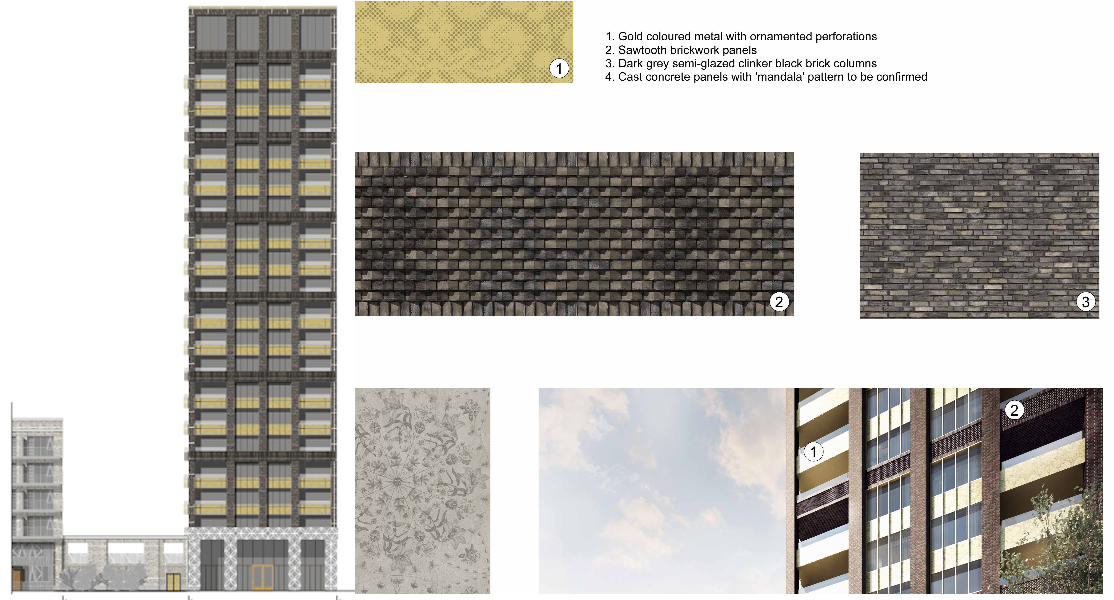
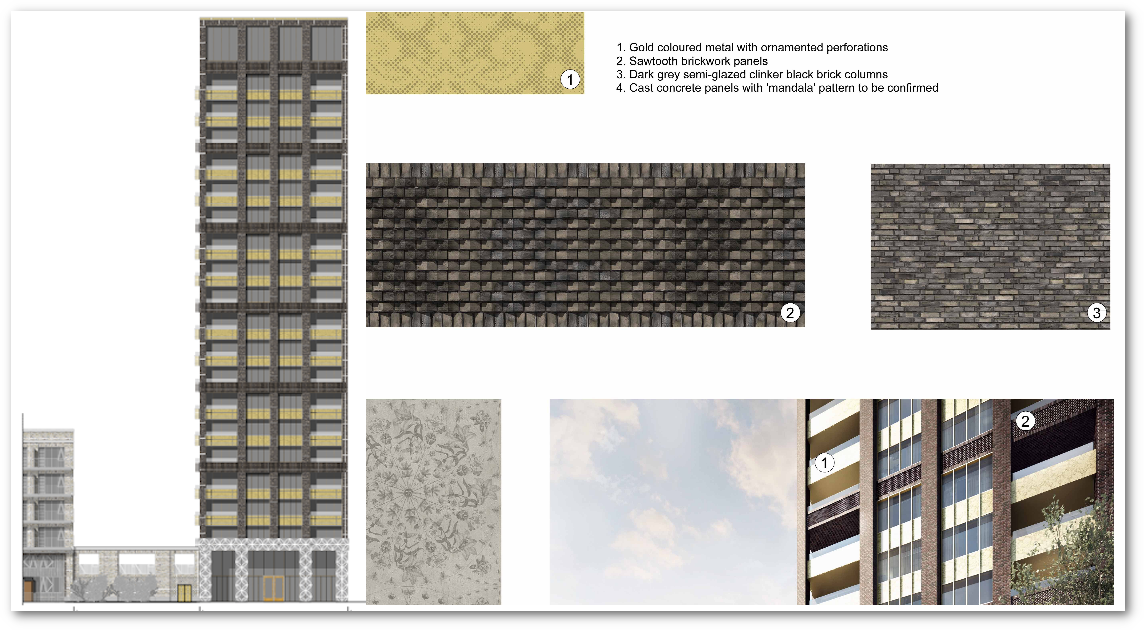
thurs morn

diff --git a/_posts/2020-07-09-aylesbury-estate-fds-variation.md b/_posts/2020-07-09-aylesbury-estate-fds-variation.md
@@ -15,12 +15,12 @@ What the tweets didn't say is that providing these 219 extra social rented homes
 
 Neither did they explain that a proportion of these social rented units won't be social rented at all, because they will be used to rehouse leaseholders being decanted from later phases under the Council's [new shared equity scheme.](http://moderngov.southwarksites.com/documents/s74901/Report%20Amending%20the%20shared%20equity%20rehousing%20policy%20for%20qualifying%20homeowners%20affected%20by%20regenerati.pdf) This was introduced in response to the Secretary of State's [ruling](https://www.theguardian.com/society/2016/sep/16/government-blocks-controversial-plan-to-force-out-housing-estate-residents) that BAME leaseholders were being displaced from their communities.
 
-Neither did they explain that Southwark has also agreed to let NHG continue to deliver the mainly private homes (290 private, 63 shared ownership and 64 social rent[^2]) that were supposed to cross-subsidise these social units without any contribution from NHG. Or that Southwark has also agreed to forgo the £6m that NHG was going to pay towards the £35m cost of building the new library and health centre.    
+Neither did they explain that Southwark has also agreed to let its development partner Notting Hill Genesis continue to deliver the mainly private homes (290 private, 63 shared ownership and 64 social rent[^2]) that were supposed to cross-subsidise these social units without any contribution from NHG. Or that Southwark has also agreed to forgo the £6m that NHG was going to pay towards the £35m cost of building the new library and health centre.    
 
 ![](/img/s04goldplatedtower.png)
-*Plans showing the proposed three private tenure towers overlooking Burgess Park*
+*Plans showing the gold-plated facade 20 storey tower overlooking Burgess Park (all private units) that NHG will retain*
 
-## Background
+## Background - viability clause and delays
 Under the Development Partnership Agreement signed in 2014, NHG was supposed to deliver 365 social rented units, subisidised by 382 private homes and 217 shared ownership homes this first phase of development.
 
 But NHG negotiated a clause into the [Development Partnership Agreement (DPA)](/img/aylesburyDPA.pdf) which required the phases to be subdivided into plots and which enabled NHG to stall and not proceed with each given plot until it becomes financially viable - i.e. providing a minimum 21% profit margin to NHG.  
@@ -37,12 +37,14 @@ In fact, there isn't even a planning application submitted for phase 2 yet, let 
 
 The delays and years of council homes standing empty or plots standing empty after they have been demolished is not a good look for the Council and it has come under political pressure as a result. NHG has used this as leverage to hold the Council over a barrel and force concessions, just as Lendlease did with the Council at the neighbouring Heygate estate regeneration.
 
-## History repeats
-Southwark has alread rolled over once already to NHG as it has used its plot viability clause negotiated in the DPA as leverage to force concessions out of the Council, which is heavily invested politically in the scheme.
+## NHG holds Southwark over a barrel (yet again)
+Southwark has alread rolled over twice already to NHG as it has used its plot viability clause negotiated in the DPA as leverage to force concessions out of the Council, which is heavily invested politically in the scheme.
 
 In September 2016, Southwark [forked out £21 million](http://moderngov.southwark.gov.uk/documents/s63817/Report.Aylesbury%20Regeneration%20Delivery.pdf) in demolition and planning costs.
 
 ![](/img/nhttproceed.png)
+
+In 2018, NHG was awarded £30m of GLA grant funding for the first phase of the scheme. The [Development Partnership Agreement](/img/aylesburyDPA.pdf) set out that any grant funding awarded to the scheme should go to Southwark, such that it receives some kind of remuneration for the sale of its land (see para 4.1, page 111). But NHG forced Southwark to agree to a variation allowing it to pocket the entire £30m.
 
 ## The FDS 
 In August last year, NHG was [forced](https://www.insidehousing.co.uk/news/news/notting-hill-genesis-scales-back-development-plans-amid-changing-market-conditions-62506) to 'significantly scale back' its development pipeline as it emerged that there were more than 400 unsold private market homes sitting on its books.
@@ -50,7 +52,7 @@ In August last year, NHG was [forced](https://www.insidehousing.co.uk/news/news/
 ## 11,000 new Council homes
 We blogged previously about Southwark's flagging pledge to build 11,000 new council homes and how it is still knocking down and selling off council homes faster than it is building new ones.
 
-##Conclusion
+## Conclusion
 Politics trumps common sense decision making yet again. Decisions based on rescuing aylesbury regeneration and Council homes manifesto pledges not on providng best value for money in terms of Council spending.
 
 [Evidence](http://35percent.org/ouraylesbury/cpo/#simon-morrow-sm) submitted to the 2018 CPO Public Inquiry by RICS qualified quantity surveyor Simon Morrow shows that the estate could be refurbished for just £45k per home for a 1-bed and £65k for a 4-bed.
